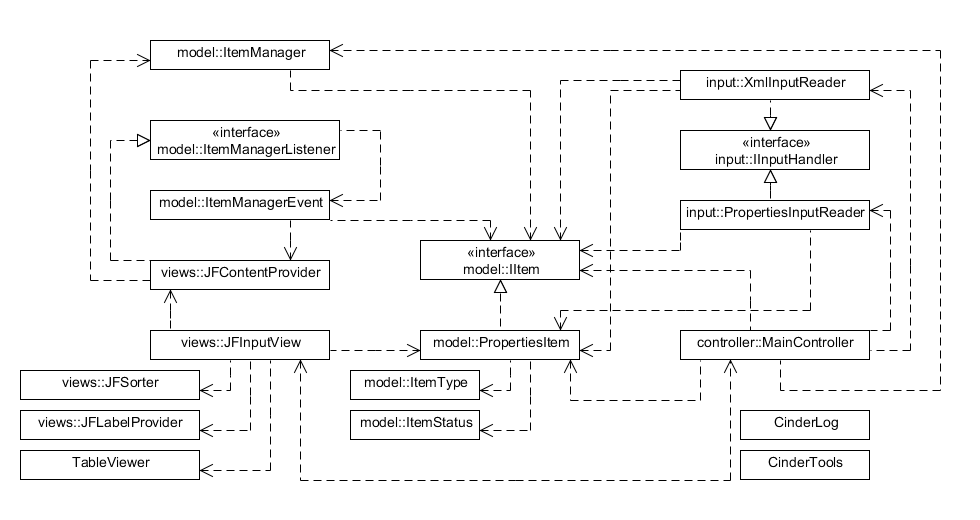
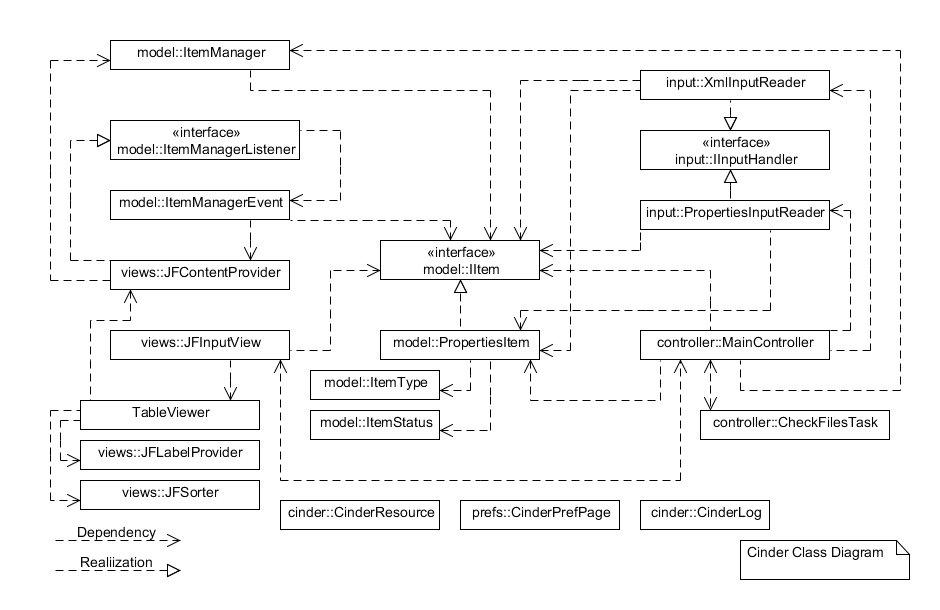
implemented clearSelected() updated diagrams

diff --git a/src/org/art_core/dev/cinder/views/JFInputView.java b/src/org/art_core/dev/cinder/views/JFInputView.java
@@ -170,15 +170,13 @@ public class JFInputView extends ViewPart {
 	 * @param bEnable
 	 */
 	private void executeMarkerToggleSelected(final boolean bEnable) {
-		for (IItem pItem: this.getSelectedItems()) {
-			if (pItem == null) {
-				CinderLog.logErrorInfo("executeMarkerToggleSingle", new Exception());
-			} else {
-				if (bEnable == TOGGLE_ON) {
-					cControl.showMarkersSelected(pItem);
-				} else {
-					cControl.hideMarkersSelected(pItem);
-				}
+		if (bEnable == TOGGLE_ON) {
+			for (IItem pItem: this.getSelectedItems()) {
+				cControl.showMarkersSelected(pItem);
+			}
+		} else {
+			for (IItem pItem: this.getSelectedItems()) {
+				cControl.hideMarkersSelected(pItem);
 			}
 		}
 	}
@@ -201,16 +199,14 @@ public class JFInputView extends ViewPart {
 	 * Executes clearing selected entries.
 	 */
 	private void executeClearSelected() {
-		cControl.clearSelected();
+		for (IItem pItem: this.getSelectedItems()) {
+			cControl.clearSelected(pItem);
+		}
 	}
 	
 	private void executeSetStatus(ItemStatus status) {
 		for (IItem pItem: this.getSelectedItems()) {
-			if (pItem == null) {
-				CinderLog.logErrorInfo("executeSetStatus", new Exception());
-			} else {
-				cControl.setStatus(pItem, status);
-			}
+			cControl.setStatus(pItem, status);
 		}
 	}
 
@@ -222,7 +218,7 @@ public class JFInputView extends ViewPart {
 		String sPrefPath = ipsPref.getString(sPrefKey);
 		CinderLog.logDebug("JFIV_eOF:" + sPrefPath);
 		final String sFile = getOpenFile(sPrefPath);
-		if (sFile.length() > 0) {
+		if (sFile != null && sFile.length() > 0) {
 			try {
 				cControl.insertFromFile(sFile, MainController.FILE_LOCAL);
 				ipsPref.setValue(sPrefKey, sFile);
@@ -241,7 +237,7 @@ public class JFInputView extends ViewPart {
 		String sPrefPath = ipsPref.getString(sPrefKey);
 		CinderLog.logDebug("JFIV_eOU:" + sPrefPath);
 		final String sFile = getOpenUrl(sPrefPath);
-		if (sFile.length() > 0) {
+		if (sFile != null && sFile.length() > 0) {
 			try {
 				cControl.insertFromFile(sFile, MainController.FILE_REMOTE);
 				ipsPref.setValue(sPrefKey, sFile);

diff --git a/src/org/art_core/dev/cinder/controller/MainController.java b/src/org/art_core/dev/cinder/controller/MainController.java
@@ -182,18 +182,18 @@ public class MainController {
 		String sProjName = "";
 		for (int i = 0; i < projects.length; i++) {
 			sProjName = projects[i].getName();
-			CinderLog.logDebug("JFIV_D:DBG: " + sProjName);
+			CinderLog.logDebug("MC_HIDE:DBG: " + sProjName);
 			res = (IFile) root
 					.findMember(sProjName + "/" + pItem.getLocation());
 			if (res == null) {
-				CinderLog.logDebug("JFIV_D_notfound:NULL");
+				CinderLog.logDebug("MC_HIDE_notfound:NULL");
 				continue;
 			} else {
-				CinderLog.logDebug("JFIV_D____found:" + res.toString());
+				CinderLog.logDebug("MC_HIDE____found:" + res.toString());
 				break;
 			}
 		}
-		CinderLog.logDebug("JFIV_D_start2");
+		
 
 		try {
 			//res.deleteMarkers(null, true, 2);
@@ -225,7 +225,8 @@ public class MainController {
 	/**
 	 * Removes selected items from the manager.
 	 */
-	public void clearSelected() {
+	public void clearSelected(IItem item) {
+		manager.remove(item);
 		cView.getViewer().refresh();
 	}
 	

diff --git a/src/org/art_core/dev/cinder/model/ItemManager.java b/src/org/art_core/dev/cinder/model/ItemManager.java
@@ -44,6 +44,10 @@ public final class ItemManager {
 	public void add(final IItem iiNewItem) {
 		items.add(iiNewItem);
 	}
+	
+	public void remove(final IItem iiItem) {
+		items.remove(iiItem);
+	}
 
 	// /////////////////////////////////////////////////////////////////////////
 	//
@@ -51,13 +55,13 @@ public final class ItemManager {
 	//
 	// /////////////////////////////////////////////////////////////////////////
 
-	public void addItemManagerListener(final ItemManagerListener listener) {
+	public void addListener(final ItemManagerListener listener) {
 		if (!listeners.contains(listener)) {
 			listeners.add(listener);
 		}
 	}
 
-	public void removeItemManagerListener(final ItemManagerListener listener) {
+	public void removeListener(final ItemManagerListener listener) {
 		listeners.remove(listener);
 	}
 

diff --git a/src/org/art_core/dev/cinder/views/JFContentProvider.java b/src/org/art_core/dev/cinder/views/JFContentProvider.java
@@ -35,11 +35,11 @@ public class JFContentProvider implements IStructuredContentProvider,
 			final Object newInput) {
 		this.viewer = (TableViewer) vViewer;
 		if (manager != null) {
-			manager.removeItemManagerListener(this);
+			manager.removeListener(this);
 		}
 		manager = (ItemManager) newInput;
 		if (manager != null) {
-			manager.addItemManagerListener(this);
+			manager.addListener(this);
 		}
 		this.viewer.refresh();
 	}

diff --git a/src/org/art_core/dev/cinder/model/PropertiesItem.java b/src/org/art_core/dev/cinder/model/PropertiesItem.java
@@ -1,6 +1,5 @@
 package org.art_core.dev.cinder.model;
 
-import org.eclipse.core.resources.IFile;
 import org.eclipse.core.resources.IResource;
 import org.eclipse.core.runtime.Platform;
 
@@ -13,7 +12,6 @@ public class PropertiesItem implements IItem {
 	private int line;
 	private int offset;
 	private int timestamp;
-	public IFile rFile;
 
 	private IResource resource;
 
